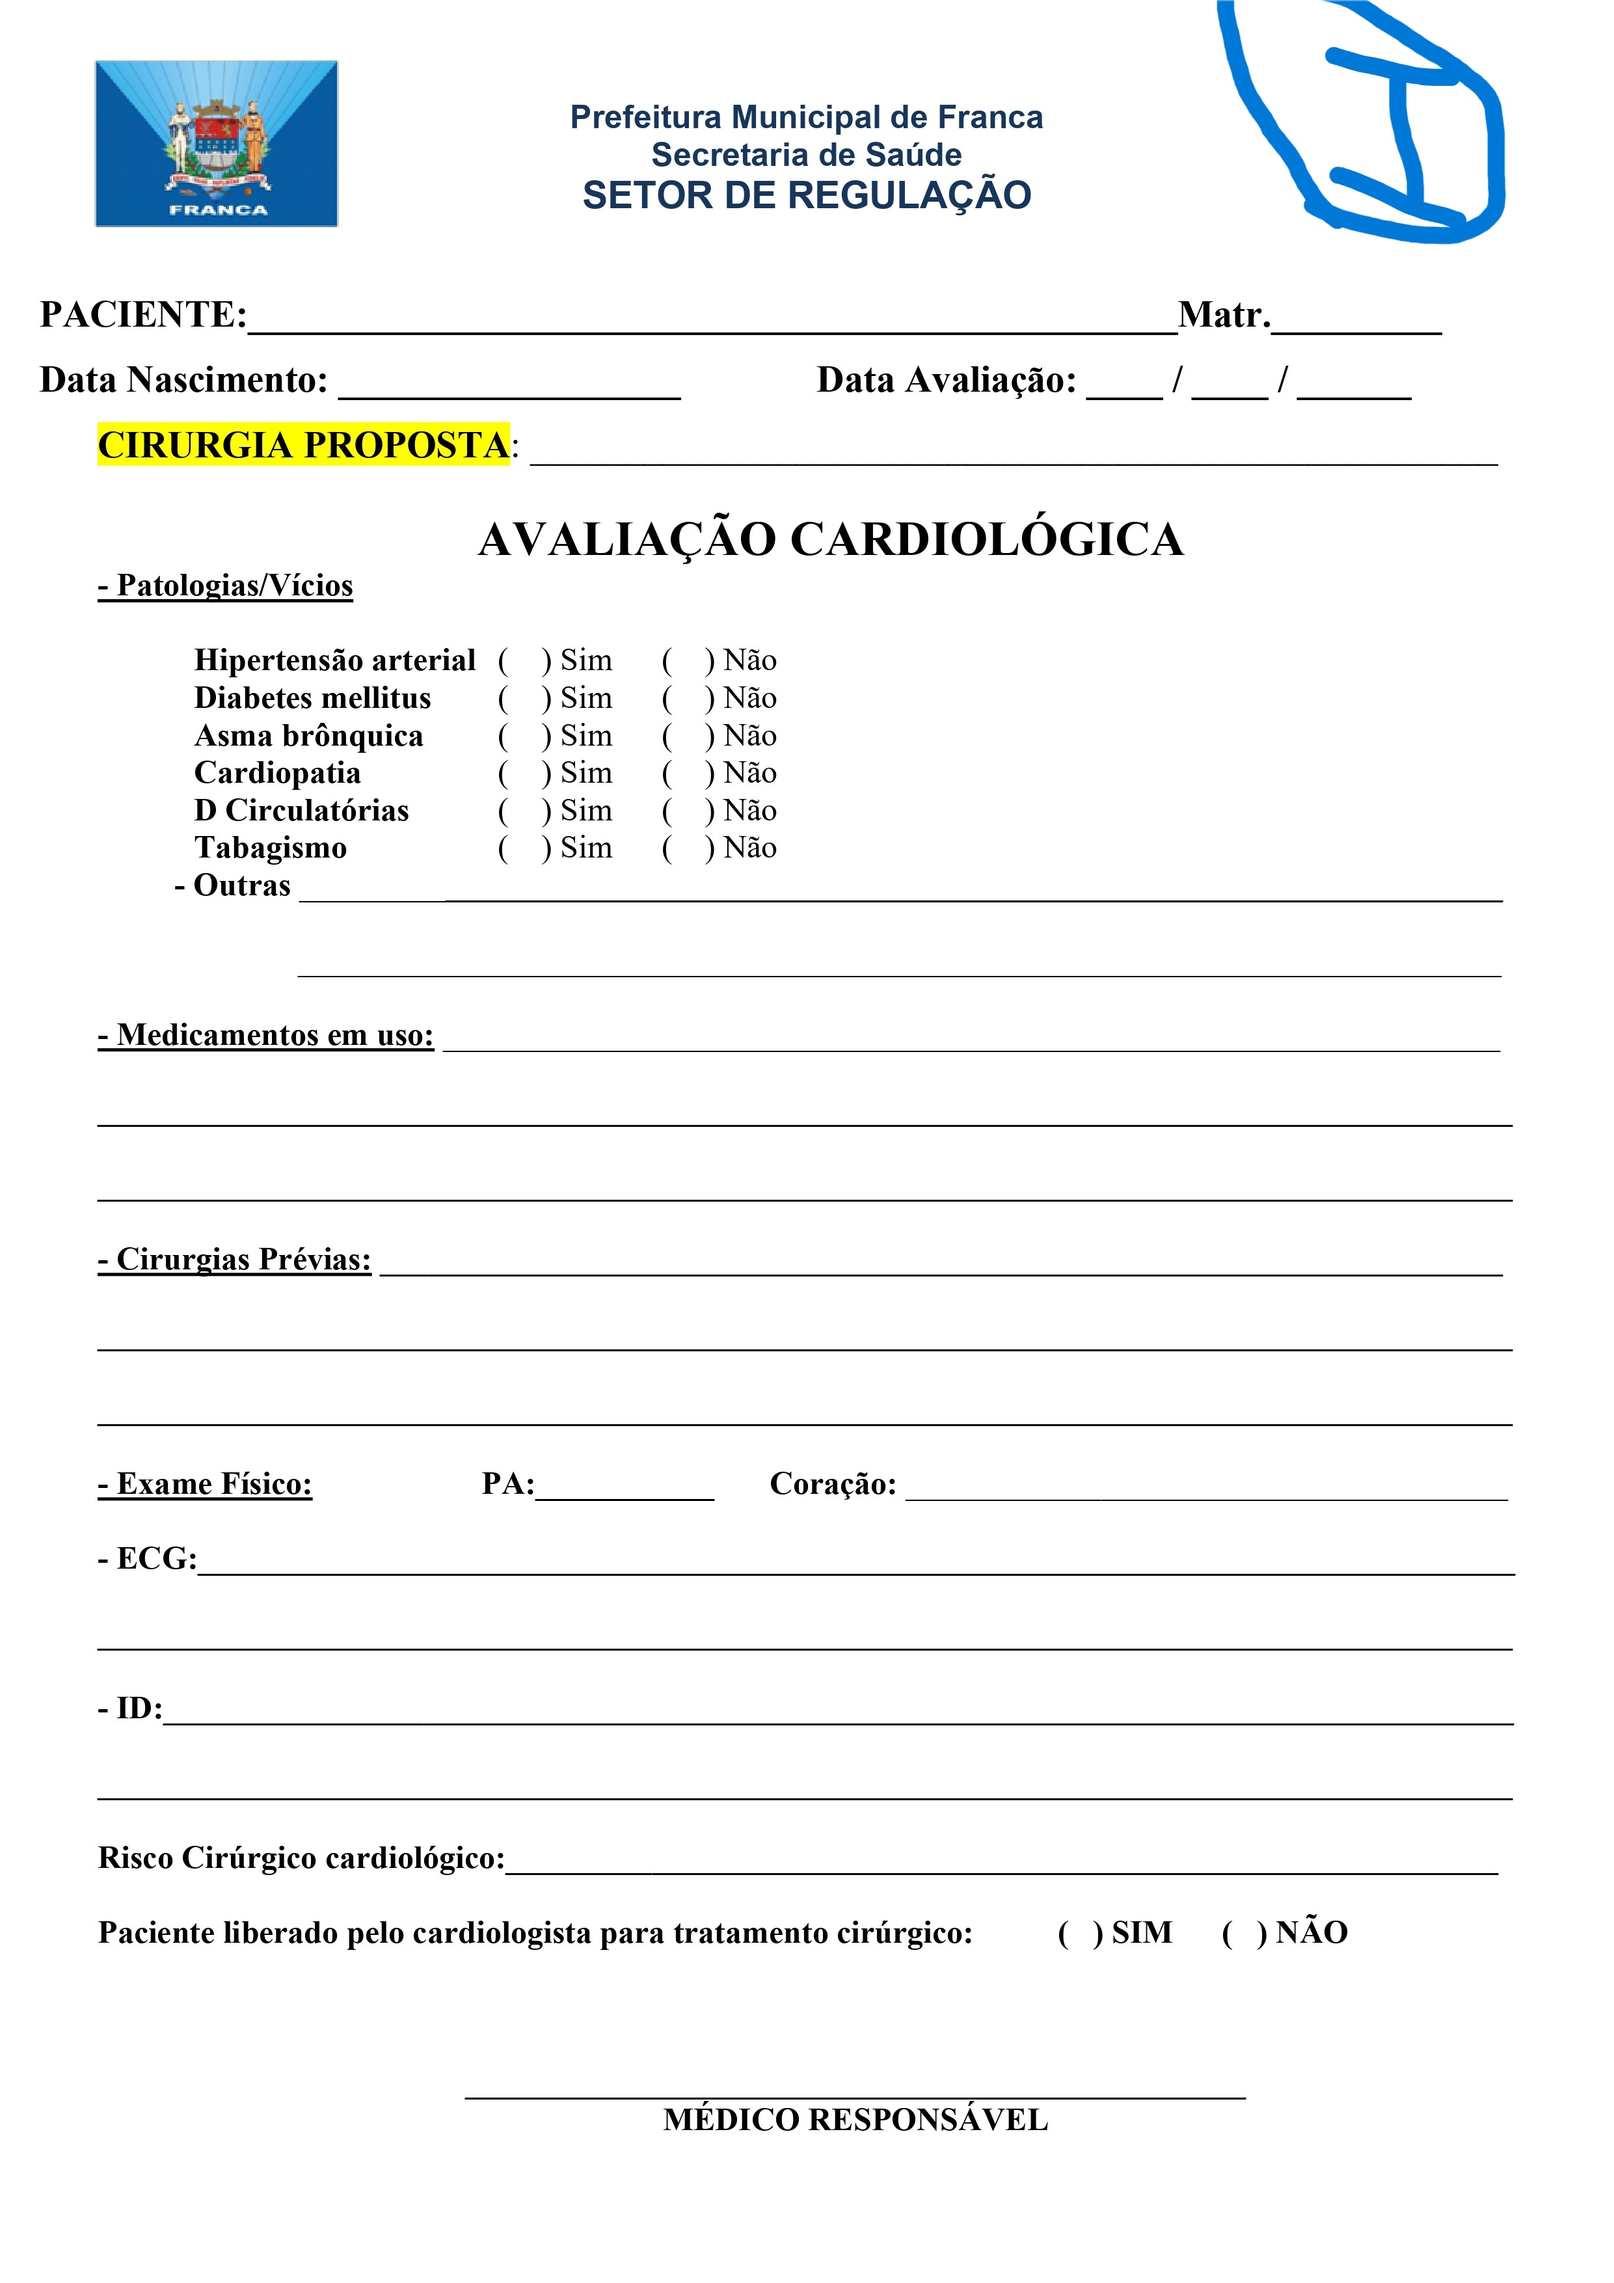
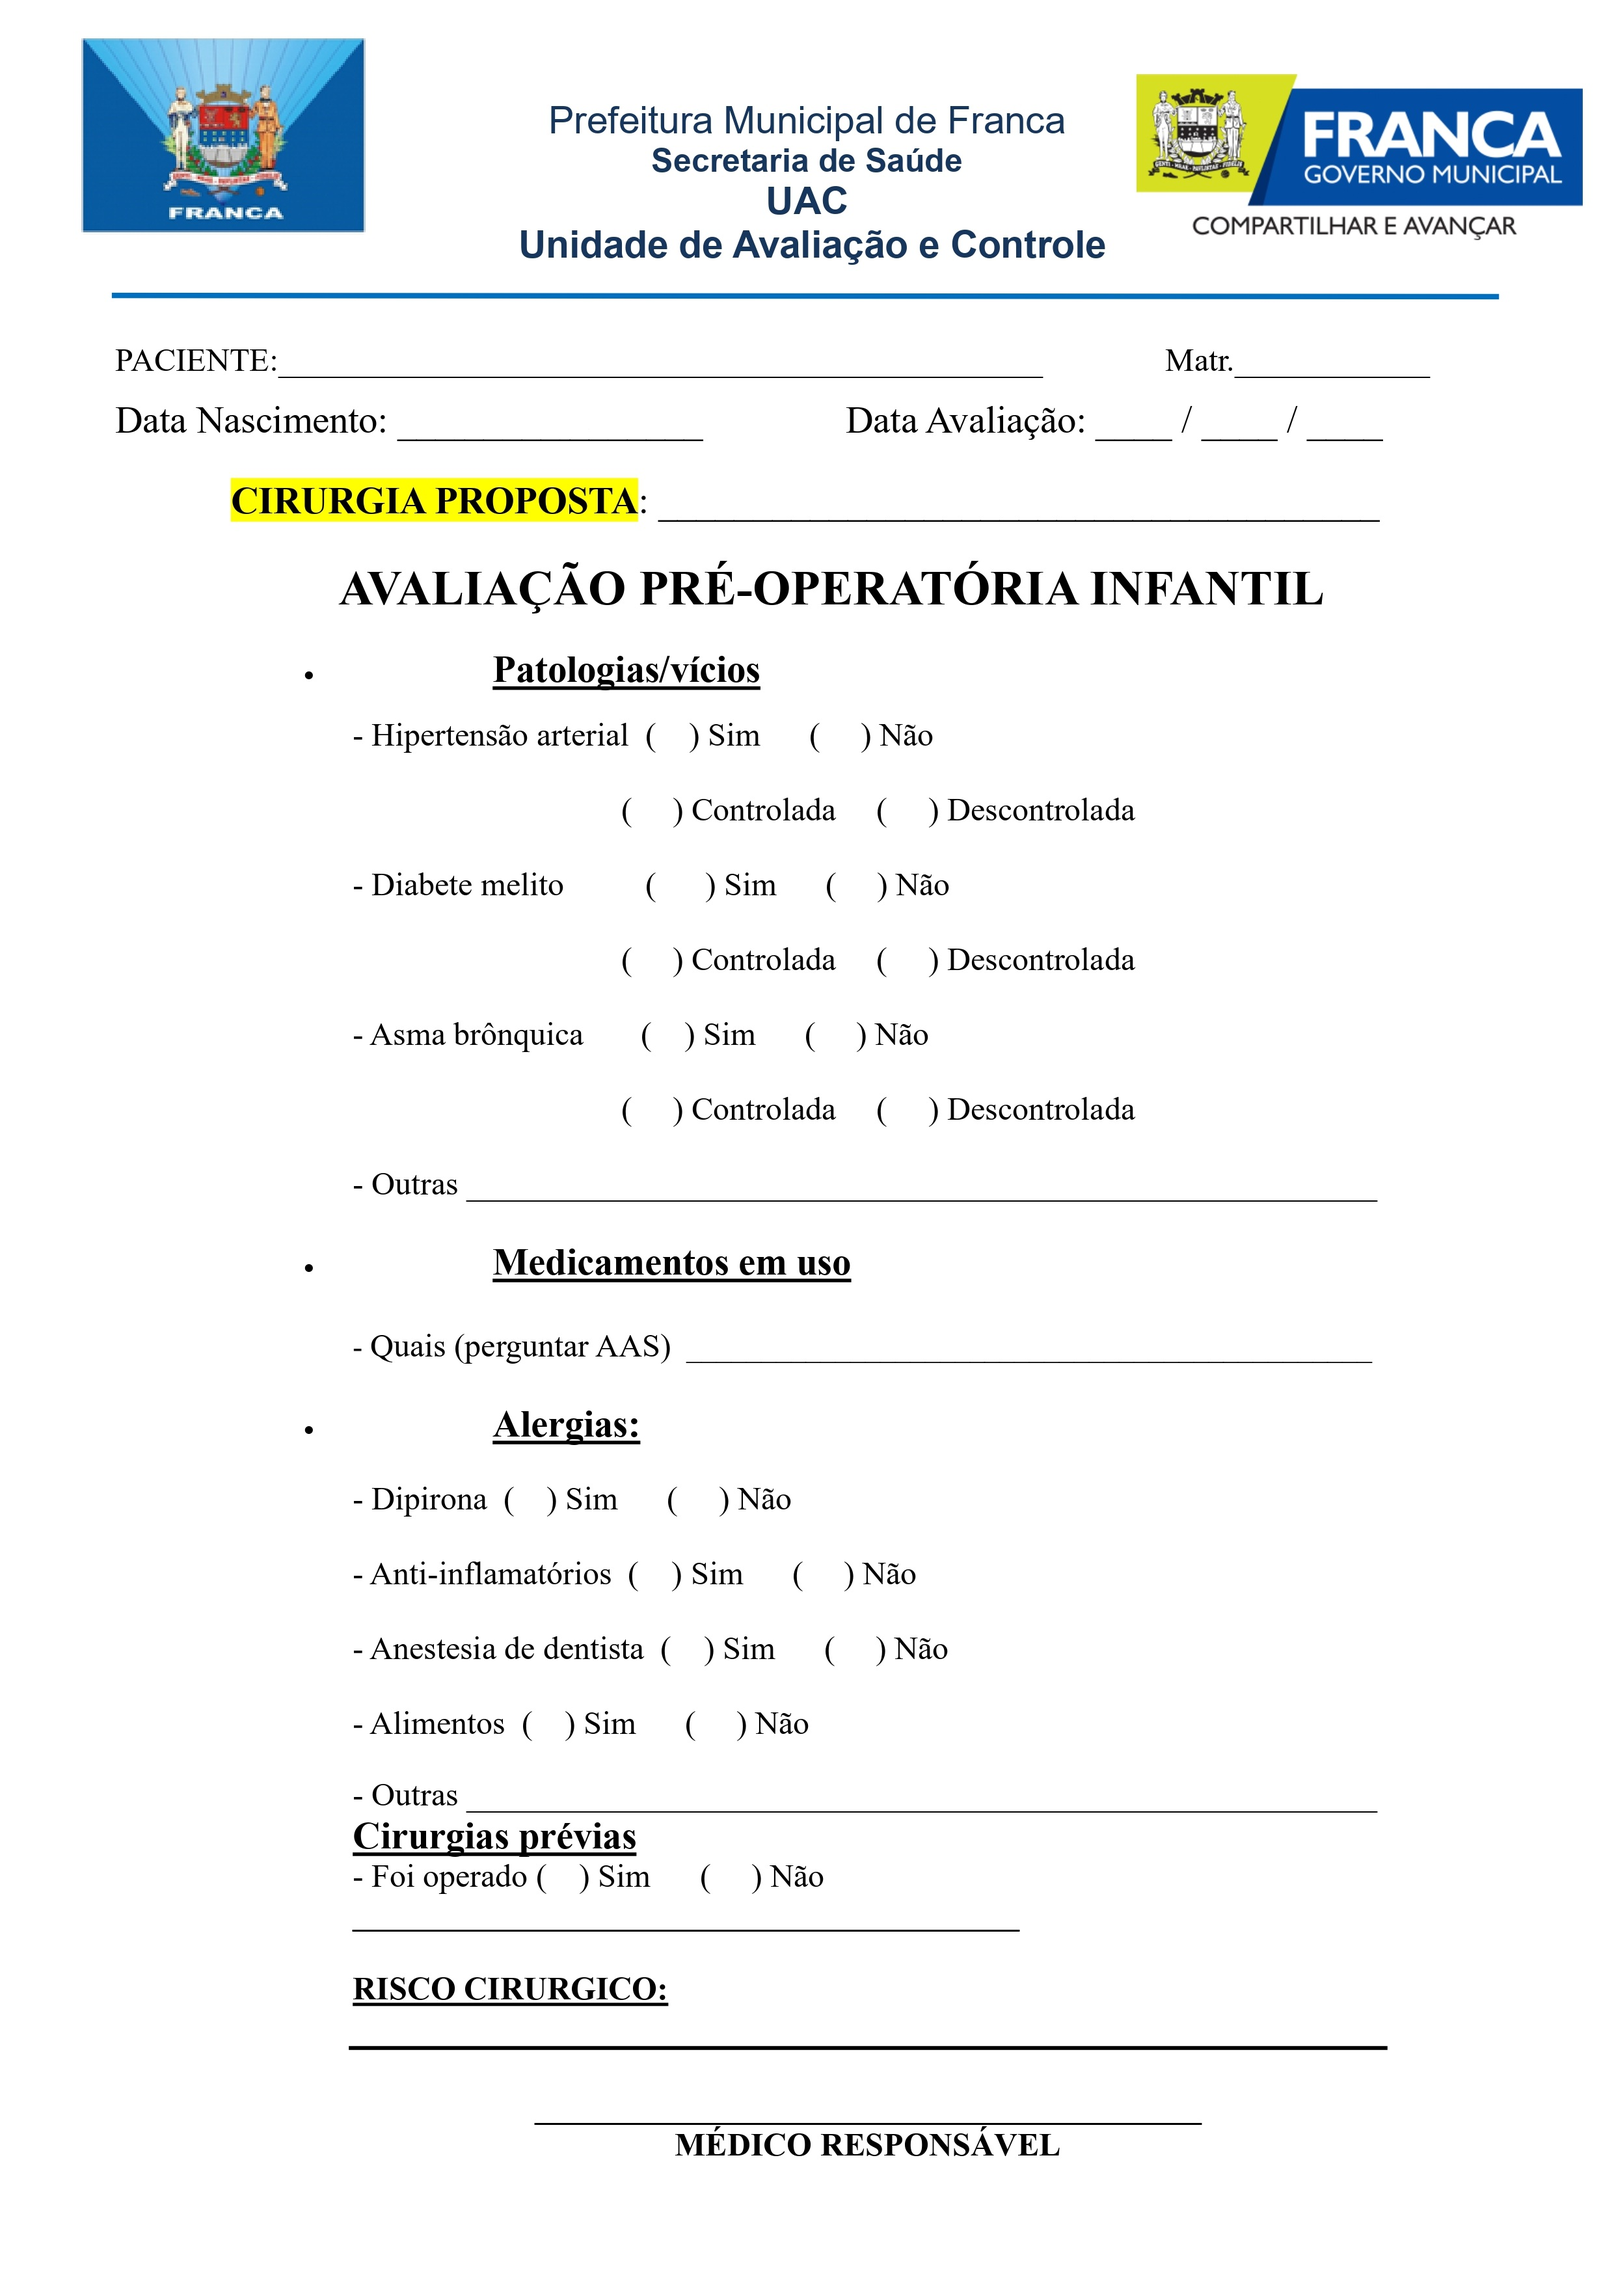
atualizacao das imagens para geracao

diff --git a/script.js b/script.js
@@ -321,14 +321,21 @@ function gerarSADT(pdf, paciente, medico, exames, titulo, dataEmissao, imagemFun
     });
 }
 
-function gerarAvaliacao(pdf, paciente, imagemFundo) {
+function gerarAvaliacao(pdf, paciente, imagemFundo, ehInfantil) {
     pdf.addImage(imagemFundo, 'JPEG', 0, 0, 210, 297);
     pdf.setFont("helvetica", "normal");
     pdf.setFontSize(12);
     pdf.setTextColor(0, 0, 0);
-    pdf.text(paciente.nome, 35, 42);
-    pdf.text(paciente.matricula, 169, 42);
-    pdf.text(formatarData(paciente.dataNasc), 49, 51);
+    
+    if (ehInfantil) {
+        pdf.text(paciente.nome, 38, 48.3);
+        pdf.text(paciente.matricula, 164, 48.3);
+        pdf.text(formatarData(paciente.dataNasc), 53, 56.8);
+    } else {
+        pdf.text(paciente.nome, 35, 42);
+        pdf.text(paciente.matricula, 169, 42);
+        pdf.text(formatarData(paciente.dataNasc), 49, 51);
+    }
 }
 
 function gerarLembreteDoc(pdf, paciente, imagemFundo) {
@@ -345,7 +352,8 @@ async function gerarPDFPaciente(paciente, cirurgia, medico, dataEmissao) {
     const pdf = new jsPDF({ unit: 'mm', format: 'a4' });
     
     const idade = calcularIdade(paciente.dataNasc);
-    const imgAvaliacaoPath = idade < 12 ? './img/avaliacao_infantil.jpg' : './img/avaliacao.jpg';
+    const ehInfantil = idade < 12;
+    const imgAvaliacaoPath = ehInfantil ? './img/avaliacao_infantil.jpg' : './img/avaliacao.jpg';
 
     const imgSadt = await carregarImagem('./img/sadt.jpg');
     const imgAvaliacao = await carregarImagem(imgAvaliacaoPath);
@@ -372,7 +380,7 @@ async function gerarPDFPaciente(paciente, cirurgia, medico, dataEmissao) {
     });
 
     addPage();
-    gerarAvaliacao(pdf, paciente, imgAvaliacao);
+    gerarAvaliacao(pdf, paciente, imgAvaliacao, ehInfantil);
 
     addPage();
     gerarLembreteDoc(pdf, paciente, imgLembrete);
@@ -455,7 +463,8 @@ window.processarLote = async function() {
         const outros = exames.filter(e => e.grupo === 'outros');
         
         const idade = calcularIdade(p.dataNasc);
-        const imgAvaliacaoUsar = idade < 12 ? imgAvaliacaoInfantil : imgAvaliacao;
+        const ehInfantil = idade < 12;
+        const imgAvaliacaoUsar = ehInfantil ? imgAvaliacaoInfantil : imgAvaliacao;
 
         const addPag = (fn, ...args) => {
             if (!primeiroPaciente) pdfFinal.addPage();
@@ -471,7 +480,7 @@ window.processarLote = async function() {
         ultrassons.forEach(ex => addPag(gerarSADT, p, medico, [ex], 'Ultrassom', dataEmissao, imgSadt));
         outros.forEach(ex => addPag(gerarSADT, p, medico, [ex], 'Outros', dataEmissao, imgSadt));
         
-        addPag(gerarAvaliacao, p, imgAvaliacaoUsar);
+        addPag(gerarAvaliacao, p, imgAvaliacaoUsar, ehInfantil);
         addPag(gerarLembreteDoc, p, imgLembrete);
     }
 
